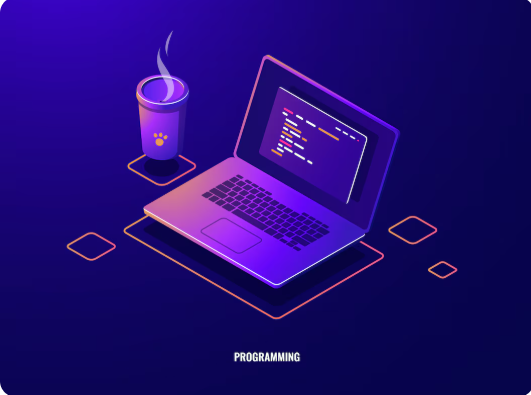
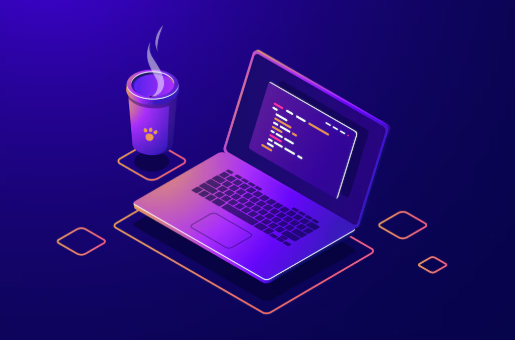
hero-section

diff --git a/Module-4-CSS-Layouts/c4-4-hero-section-design.html b/Module-4-CSS-Layouts/c4-4-hero-section-design.html
@@ -1,0 +1,147 @@
+<!DOCTYPE html>
+<html lang="en">
+
+<head>
+    <meta charset="UTF-8">
+    <meta name="viewport" content="width=device-width, initial-scale=1.0">
+    <title>Hero Section</title>
+
+    <style>
+        * {
+            margin: 0;
+            padding: 0;
+            box-sizing: border-box;
+        }
+
+        body {
+            background-color: rgb(153, 196, 171);
+            font-family: Arial, sans-serif;
+        }
+
+        /* nav design start */
+        nav {
+            display: flex;
+            justify-content: space-between;
+            align-items: center;
+
+            padding: 10px;
+            background-color: rgb(133, 204, 183);
+        }
+
+        nav ul {
+            display: flex;
+            /* justify-content: space-between; */
+            list-style: none;
+            gap: 20px;
+        }
+
+        nav a {
+            text-decoration: none;
+            padding: 10px;
+            color: black;
+            border-radius: 10px;
+        }
+
+        nav a:hover {
+            background-color: #fff;
+            
+        }
+
+        /* nav design end */
+
+        /* hero-section design start */
+
+        header{
+            display: flex;
+            /* justify-content: space-between; */
+            align-items: center;
+            gap: 50px  ;
+
+            padding: 60px 80px; 
+            background-color: rgb(101, 150, 103);
+            min-height: 70vh;
+
+        }
+
+        /* left-side */
+        .hero-content{
+            flex: 1;   /* child property : flex-grow/shrink*/
+            text-align: center; 
+            
+        }
+
+        .hero-content p{
+            max-width: 500px;
+            margin: 20px auto;
+            line-height: 1.7;
+            font-size: 17px;
+            color: #fffefe;
+        }
+
+        .hero-content button{
+            background-color: rgb(238, 102, 102);
+            padding: 10px 20px ;
+            border-radius: 10px;
+            font-weight: 700;
+            cursor: pointer;
+            border:none
+            
+        }
+        .hero-content button:hover{
+            background-color: #fff;
+            transition: 0.3s;
+        }
+
+        .hero-content button a{
+            text-decoration: none;
+        }
+
+        /* right side */
+        .hero-img{
+            flex: 1;
+        }
+
+        .hero-img img{
+            width: 100%;
+            display: block;
+        }
+
+    </style>
+
+
+</head>
+
+<body>
+
+    <nav>
+        <h2><a href="">Raju</a></h2>
+
+        <ul>
+            <li> <a href="./c4-4-hero-section-design.html">Home </a></li>
+            <li><a href="./c4-1-emmet.html">About </a></li>
+            <li><a href="./c4-2-flex-box.html">Contact Us</a></li>
+            <li><a href="./c4-3-nav-bar-design.html">Sign Up</a></li>
+        </ul>
+
+    </nav>
+
+    <header>
+        <!-- div.hero-content>h2+p+button -->
+        <div class="hero-content">
+            <h2>Welcome </h2>
+            <p> This is my Hero Section. This is the most important part of a website.
+                We can show any important things here.
+            </p>
+            <button> <a href="">Buy Now</a> </button>
+        </div>
+
+        <div class="hero-img">
+            <img src="../images/lap.png" alt="">
+        </div>
+    </header>
+
+
+
+</body>
+
+</html>

diff --git a/Module-1-Frontend Basic/c3-headings-and-list.html b/Module-1-Frontend Basic/c3-headings-and-list.html
@@ -7,7 +7,7 @@ list tags , ordered list, unordered list
 
 
 
-<!-- Heading tags -->
+✅<!-- Heading tags -->
 
 
 <h1>Heading</h1>
@@ -29,13 +29,13 @@ list tags , ordered list, unordered list
 quis <em>dicta blanditiis</em> veniam, excepturi error, quos ex voluptate. Vitae dolore ipsa deleniti.</p>
 
 
-<!-- list tag -->
+✅<!-- list tag -->
 
 <ul>unordered list</ul>
 <ol>ordered list</ol>
 <li>list tag</li>
 
-<!-- unordered list -->
+✅<!-- unordered list -->
 <ul>
     <li>apple</li>
     <li>mango</li>
@@ -43,7 +43,7 @@ quis <em>dicta blanditiis</em> veniam, excepturi error, quos ex voluptate. Vitae
 
 
 
-<!-- ordered list -->
+✅<!-- ordered list -->
 <ol type="A">   //this is older method
     <li >banana</li>
     <li>tomato</li>
@@ -66,7 +66,7 @@ quis <em>dicta blanditiis</em> veniam, excepturi error, quos ex voluptate. Vitae
 
 
 
-1. Unordered List (<ul>) Styles
+✅1. Unordered List (<ul>) Styles
 
     | Value            | Output    |
 | ---------------- | --------- |
@@ -81,7 +81,7 @@ quis <em>dicta blanditiis</em> veniam, excepturi error, quos ex voluptate. Vitae
 </ul>
 
 
-2. Ordered List (<ol>) Styles
+✅2. Ordered List (<ol>) Styles
 
     | Value                  | Output                      |
 | ---------------------- | --------------------------- |
@@ -102,14 +102,14 @@ quis <em>dicta blanditiis</em> veniam, excepturi error, quos ex voluptate. Vitae
 
 
 
-3. The list-style Shorthand
+✅3. The list-style Shorthand
 
 list-style: square;
 list-style: upper-roman inside;
 
 
 
-4. list-style-position : Controls where the marker appears.
+✅4. list-style-position : Controls where the marker appears.
 
 list-style-position: outside;   /* Default */
 list-style-position: inside;
@@ -117,7 +117,7 @@ list-style-position: inside;
 
 
 
-5. list-style-image : Use an image instead of a bullet.
+✅5. list-style-image : Use an image instead of a bullet.
 
 ul {
     list-style-image: url("bullet.png");